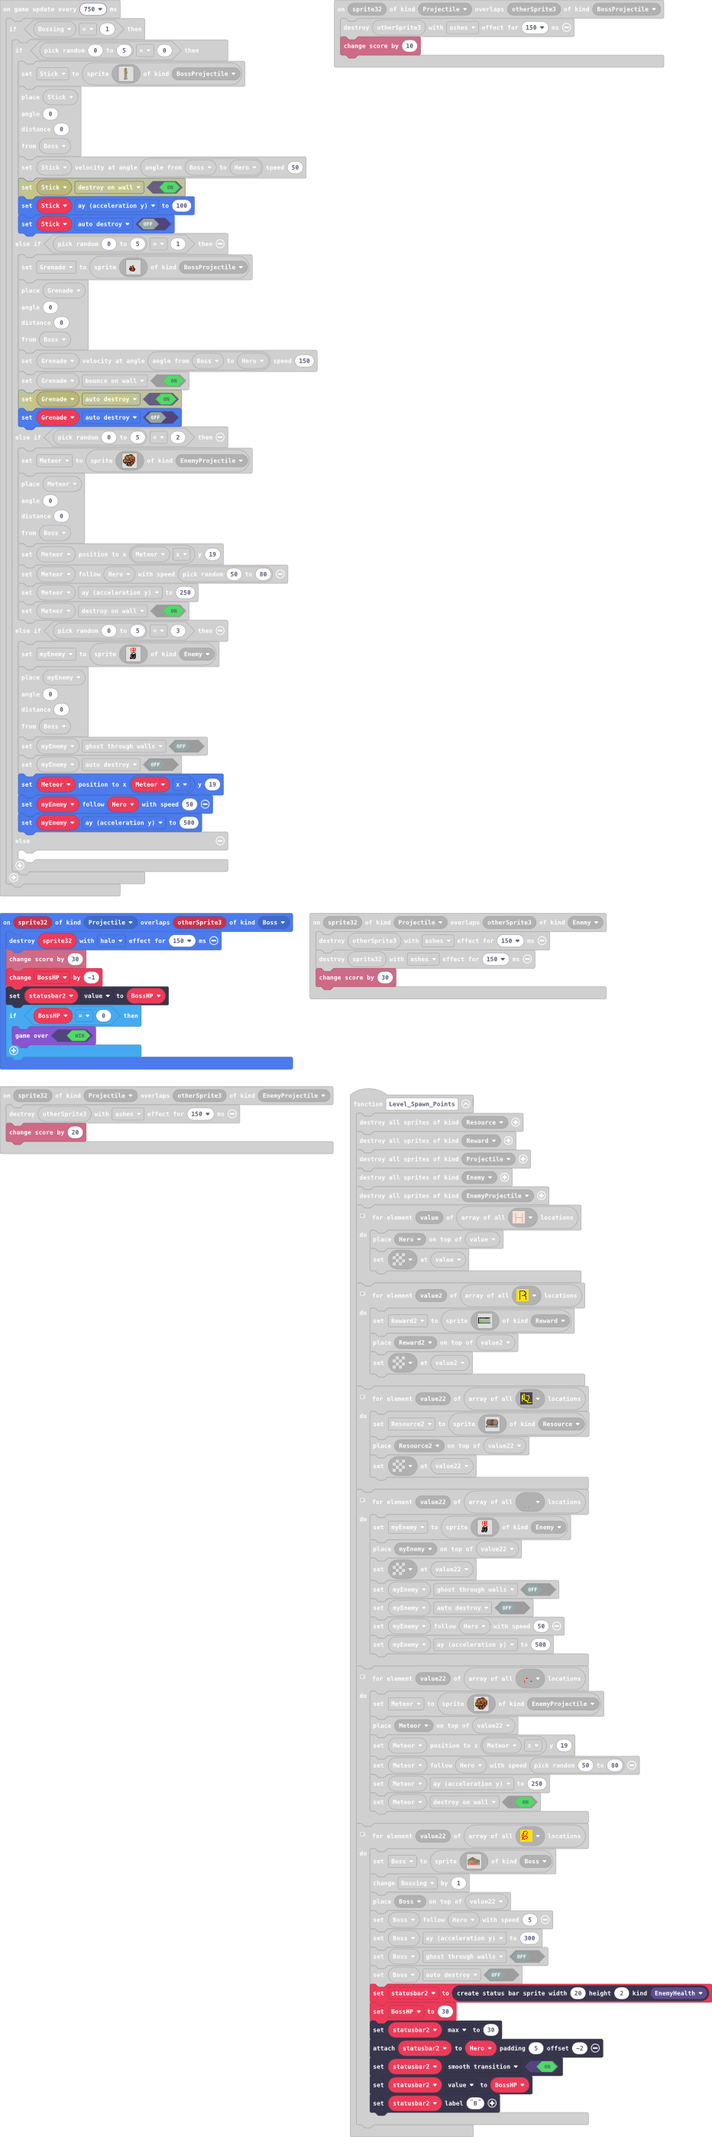
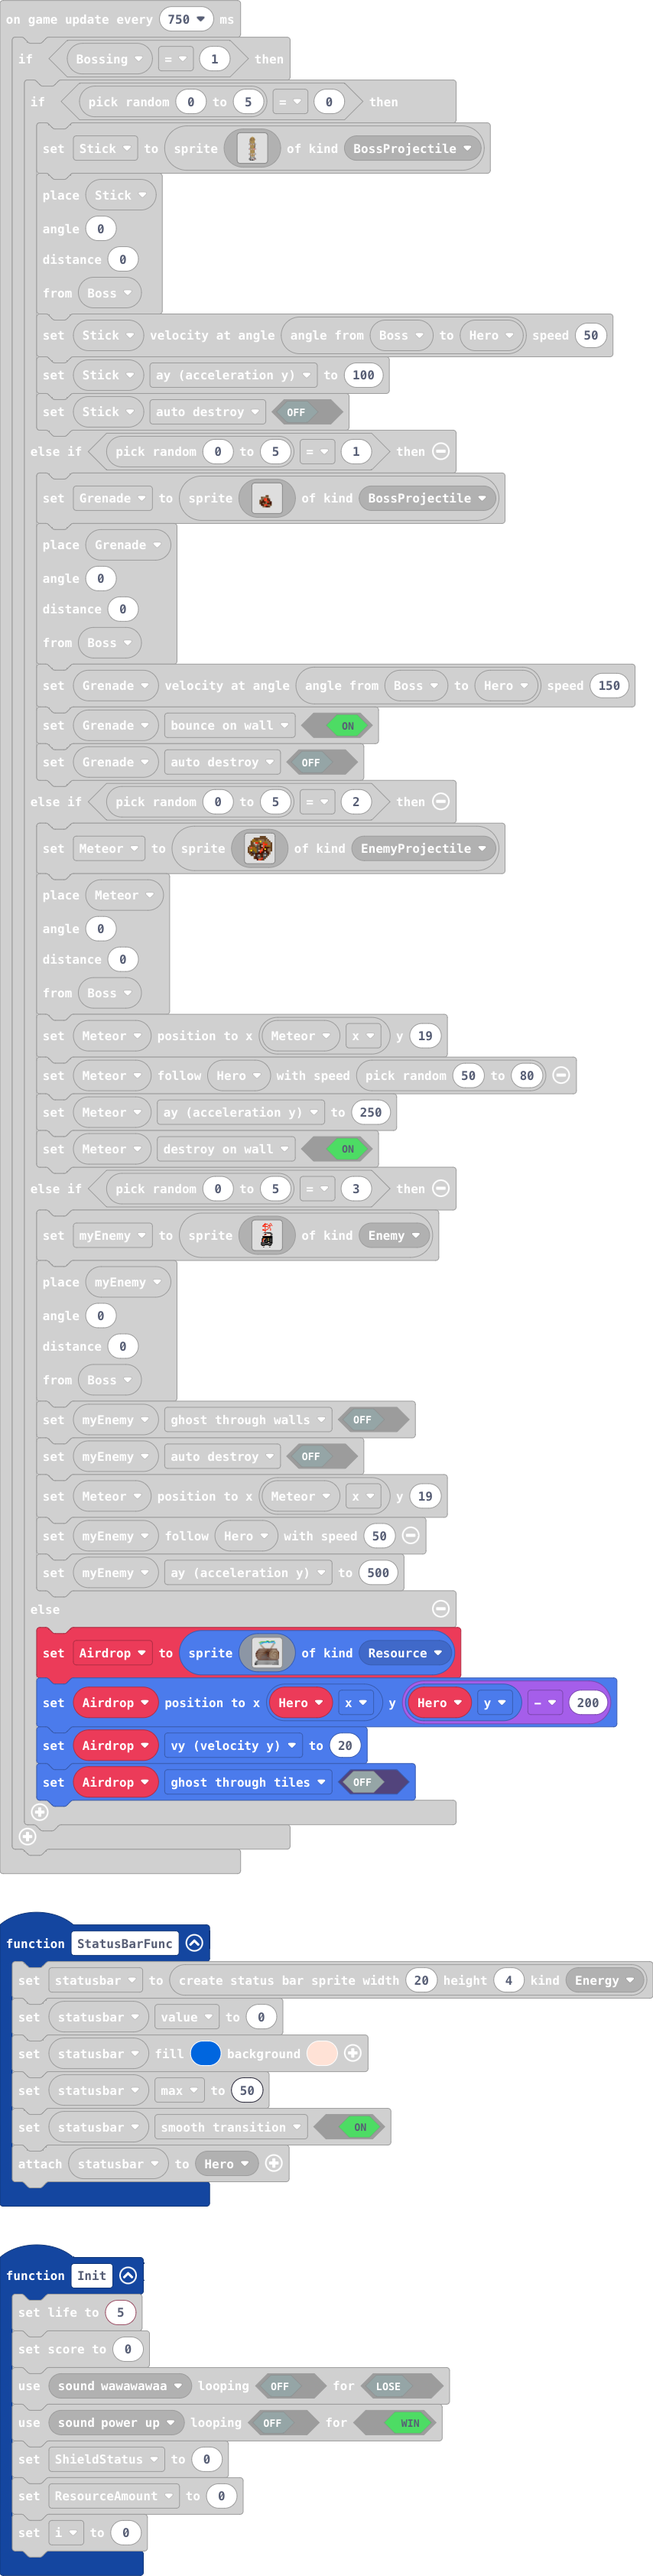
Update main.blocks, main.ts, tilemap.g.jres, tilemap.g.ts, images.g.jres, images.g.ts

diff --git a/images.g.ts b/images.g.ts
@@ -167,41 +167,6 @@ f f f f f f . 3 . . .
 . . . 3 . 3 . . . 
 . . f f . f f . . 
 `;
-            case "image1":
-            case "Enemy1":return img`
-........2..2....
-..2..2222222222.
-.222.4442442442.
-.424....2..2..2.
-..2.....2..2..2.
-..2..2222222222.
-..2..2442442444.
-..2..2..2..2....
-..2..2222222222.
-..2..4442442444.
-..4.....2..2....
-........4..4....
-...36666666663..
-..3333336666663.
-...11ff11111666.
-...1f2411111166.
-...111111111663.
-..fffffffffffff.
-..fffffffffffff.
-..fffffffffffff.
-.ff523f6f56f66f.
-.f223ff6f66f66f.
-.f23ff66f56f66f.
-.f23ff66f66f66f.
-.f23f666ffff66f.
-f6666ffff11ffff.
-f6666666666666f.
-f666666666666f..
-f6666fffff666f..
-.ffff.....fff...
-...1.......1....
-...f.......f....
-`;
             case "image12":
             case "myImage9":return img`
 . . . . . . . . c c c c . . . . 
@@ -364,6 +329,74 @@ faaaaaaaaaaaaaaaaaaaaaaaaaaaaaaaaaaaaaaaa2a4a5aaaaaaf222222222222222222222222222
[2 lines of base64/hex data omitted]
 ffffffffffffffffffffffffffffffffffffffffffffffffffffffffffffffffffffffffffffffffffffffffffffffffffffffffffffffffffffffffffffffffffffffffffffffffffffffffffffffffffffffffffffffffffffffffffffffffffffffff
+`;
+            case "image1":
+            case "Enemy1":return img`
+.....2......2...
+....22222..2.2..
+...222....2..2..
+..22.2...2222.2.
+..2222222..2....
+.....2...2.2....
+.....2...2.2....
+.....2...2..2...
+..22.2.22...2...
+..22222.....2...
+.....2..........
+.....2..........
+...36666666663..
+..3333336666663.
+...11ff11111666.
+...1f2411111166.
+...111111111663.
+..fffffffffffff.
+..fffffffffffff.
+..fffffffffffff.
+.ff523f6f56f66f.
+.f223ff6f66f66f.
+.f23ff66f56f66f.
+.f23ff66f66f66f.
+.f23f666ffff66f.
+f6666ffff11ffff.
+f6666666666666f.
+f666666666666f..
+f6666fffff666f..
+.ffff.....fff...
+...1.......1....
+...f.......f....
+`;
+            case "image14":
+            case "myImage11":return img`
+..............777...7777......
+.......77777799887778888......
+.....7779888999.889998.99.....
+......a998.............a9.....
+......99..............aa......
+.......a..............a.......
+.......aa............aa.......
+........aa..........aa........
+.........aa.........a.........
+..........aa.......aa.........
+.....bbbbbbbbbbbbbbbbbbbbbb...
+....bbaaaaaaaaacccccbaaaaab...
+...bbbbbbbbbbbbbbbbbacaaaaab..
+..bbaaaaaaaacccc6bbaccaacaaab.
+..bbbbbbbbbbbbbbbbaccaaccccaab
+.bbaaaaaaacccc66bbacaaccaaacab
+.bbbbbbbbbbbbbbbbbacaacaaaacab
+.baaaaaacccc666bbbacacaaccacab
+.bbbbbbbbbbbbbbbbbacacaaaaccab
+.bbaaaccc666666bbbacaccaaaccab
+..bbbbbbbbbbbbbbbbacaaccccccab
+..bbaacc666666666bbacaaaaaccab
+...bbbbbbbbbbbbbb66bcccccccab.
+....bbbbbbbbbbbbbbbbbbbbbbbb..
+...66666666666666666666666666.
+.6663333333333333333333333636.
+.6666666666666666666666666666.
+66633333333333333333333363636.
+66666666666666666666666666666.
+66633333333333333333336363636.
 `;
         }
         return null;

diff --git a/main.ts b/main.ts
@@ -7,6 +7,7 @@ namespace SpriteKind {
     export const EnemyProjectile = SpriteKind.create()
     export const Boss = SpriteKind.create()
     export const BossProjectile = SpriteKind.create()
+    export const MedKit = SpriteKind.create()
 }
 scene.onOverlapTile(SpriteKind.Player, assets.tile`myTile0`, function (sprite, location) {
     Damage()
@@ -439,7 +440,7 @@ function StatusBarFunc () {
     statusbar = statusbars.create(20, 4, StatusBarKind.Energy)
     statusbar.value = 0
     statusbar.setColor(8, 1)
-    statusbar.max = 30
+    statusbar.max = 50
     statusbar.setStatusBarFlag(StatusBarFlag.SmoothTransition, true)
     statusbar.attachToSprite(Hero)
 }
@@ -649,7 +650,7 @@ function BKeyPressed (OnShield: boolean) {
     RefreshStatus()
 }
 function Init () {
-    info.setLife(3)
+    info.setLife(5)
     info.setScore(0)
     game.setGameOverPlayable(false, music.melodyPlayable(music.wawawawaa), false)
     game.setGameOverPlayable(true, music.melodyPlayable(music.powerUp), false)
@@ -679,6 +680,7 @@ sprites.onOverlap(SpriteKind.Projectile, SpriteKind.EnemyProjectile, function (s
 scene.onOverlapTile(SpriteKind.Player, assets.tile`myTile9`, function (sprite6, location5) {
     game.over(false, effects.dissolve)
 })
+let Airdrop: Sprite = null
 let Grenade: Sprite = null
 let Stick: Sprite = null
 let myDart: Dart = null
@@ -839,7 +841,10 @@ game.onUpdateInterval(750, function () {
             myEnemy.follow(Hero, 50)
             myEnemy.ay = 500
         } else {
-        	
+            Airdrop = sprites.create(assets.image`myImage11`, SpriteKind.Resource)
+            Airdrop.setPosition(Hero.x, Hero.y - 200)
+            Airdrop.vy = 20
+            Airdrop.setFlag(SpriteFlag.GhostThroughTiles, false)
         }
     }
 })

diff --git a/tilemap.g.ts b/tilemap.g.ts
@@ -68,6 +68,8 @@ namespace myTiles {
     export const tile32 = image.ofBuffer(hex``);
     //% fixedInstance jres blockIdentity=images._tile
     export const tile33 = image.ofBuffer(hex``);
+    //% fixedInstance jres blockIdentity=images._tile
+    export const tile34 = image.ofBuffer(hex``);
 
     helpers._registerFactory("tilemap", function(name: string) {
         switch(helpers.stringTrim(name)) {
@@ -324,6 +326,8 @@ namespace myTiles {
             case "tile32":return tile32;
             case "myTile27":
             case "tile33":return tile33;
+            case "myTile28":
+            case "tile34":return tile34;
         }
         return null;
     })
